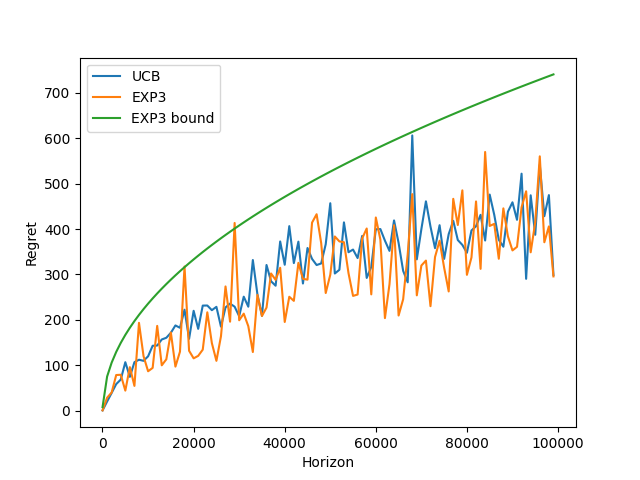
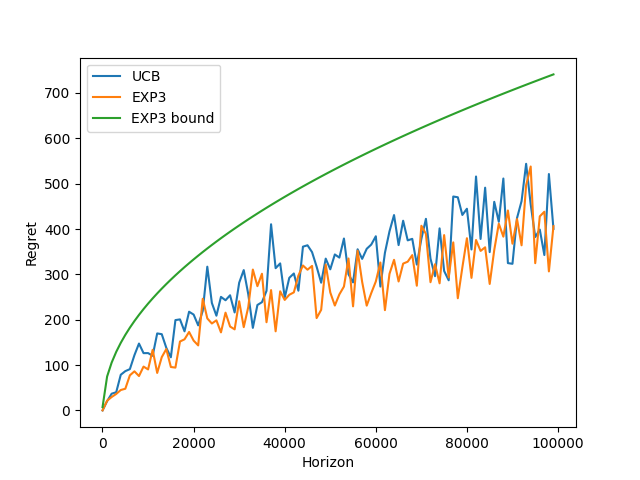
new graphs

Changed region(s): [[0.1562, 0.2812, 0.875, 0.8438]]

diff --git a/BA_ch_11/BA11.py b/BA_ch_11/BA11.py
@@ -40,8 +40,7 @@ class BernouliBandit(object):
     def run_experiment_eta(self, eta):
         print(f"Running experiment for eta = {eta}...")
         horizon = 100000
-        exp3 = EXP3(self.n_arms, horizon, eta)
-        exp3_regret = self.run(exp3, horizon)
+        exp3_regret = self.run(EXP3(self.n_arms, horizon, eta), horizon)
         return exp3_regret
 
 def main():
@@ -78,7 +77,7 @@ def main():
     min_exp3_regret = float("inf")
     min_exp3_eta = None
     eta_list = []
-    with Pool() as p:
+    with Pool(1) as p:
         results = p.map(bandit.run_experiment_eta, np.arange(0.01, 0.11, 0.01))
         for eta, exp3_r in zip(np.arange(0.01, 0.11, 0.01), results):
             eta_list.append(eta)

diff --git a/BA_ch_11/EXP3.py b/BA_ch_11/EXP3.py
@@ -14,7 +14,6 @@ class EXP3(object):
         """Selects the arm to pull."""
         # Select the arm with the highest EXP3 value.
         exp3_values = sps.softmax(self.eta * self.S)
-        # return np.random.choice(self.n_arms, p=exp3_values)
         return np.random.multinomial(1, exp3_values).argmax()
 
     def update(self, arm, reward):
